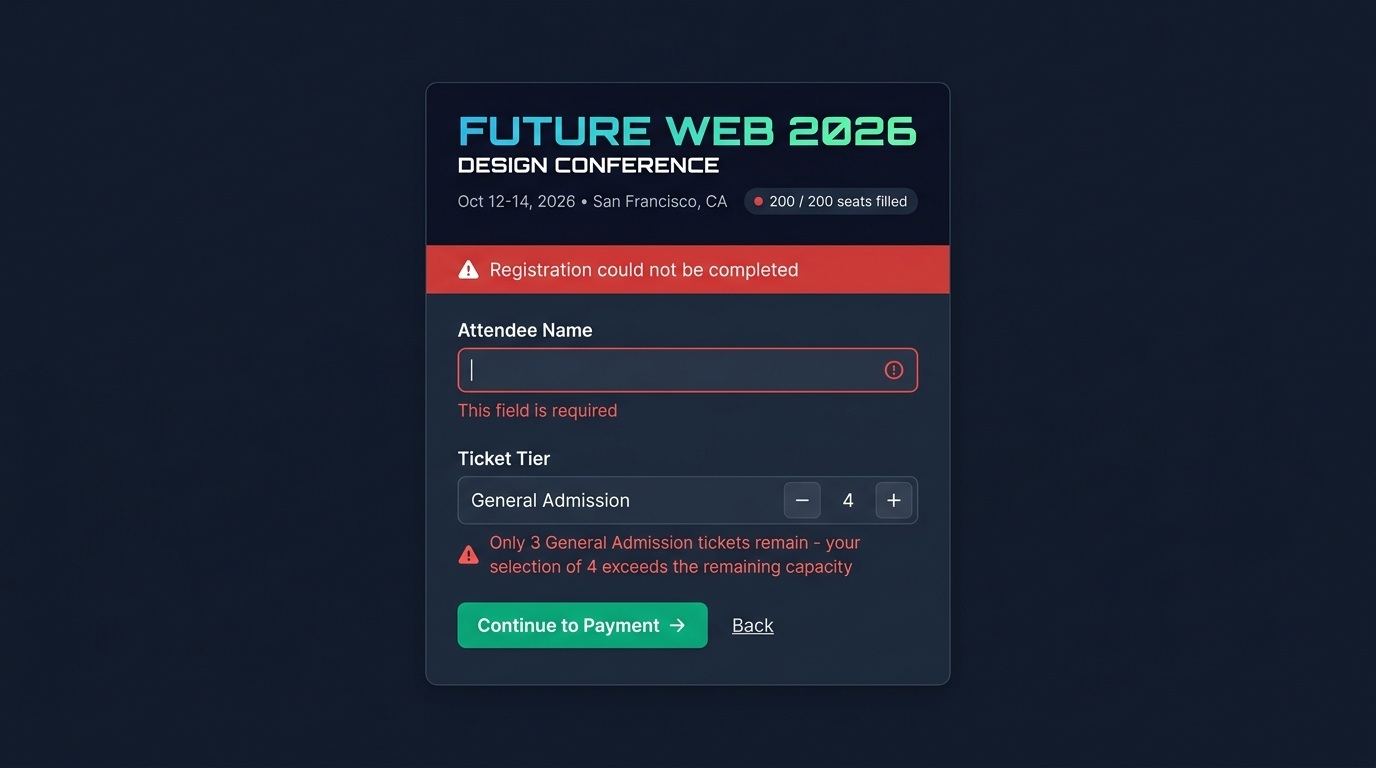
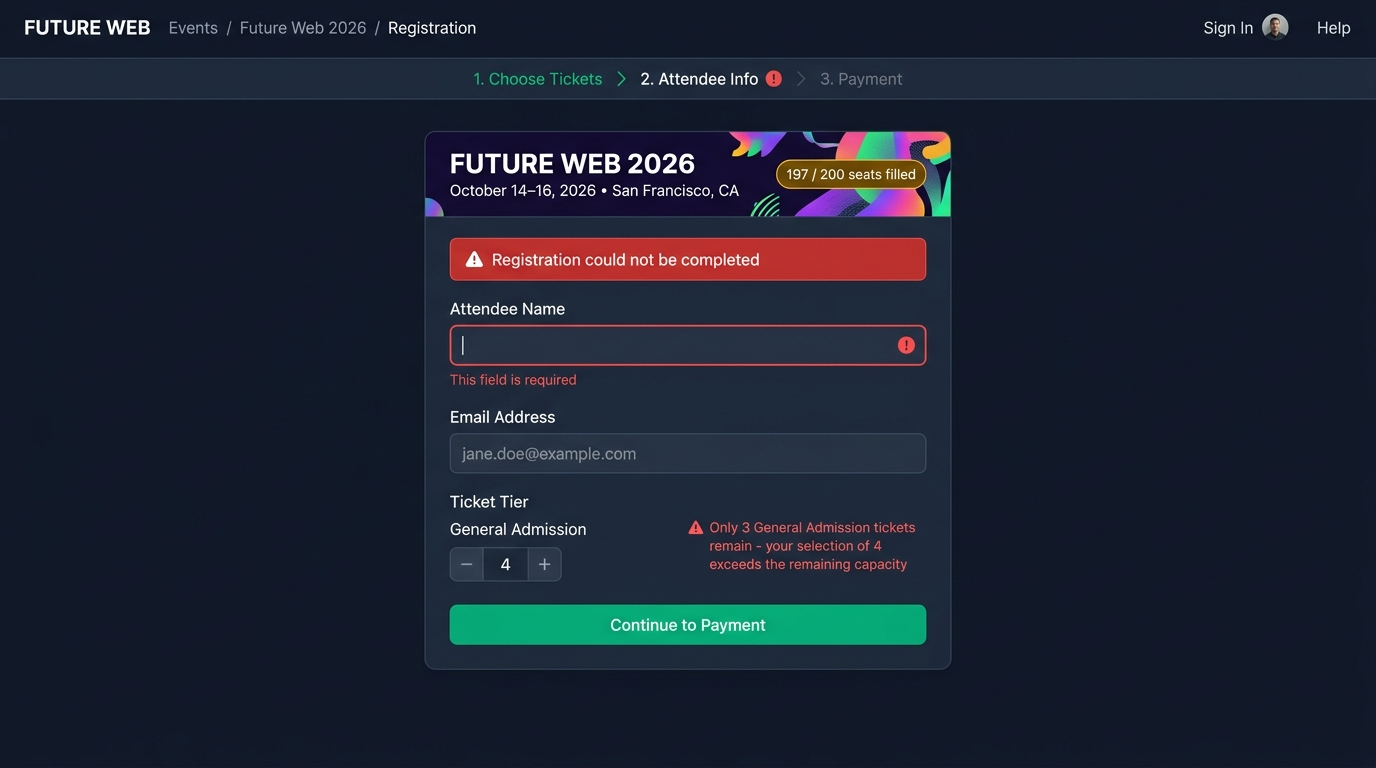
fix(event-registration): Make the refusal board's inventory coherent
Resolves P2 finding mwg-train-vxf5: the prompt authored contradictory
inventory - a '200 / 200 seats filled' pill beside a 'Only 3 General
Admission tickets remain' notice. If 200 of 200 are filled, zero remain.

The prompt now reads '197 / 200 seats filled' (200 - 197 = 3 remaining,
the selection of 4 exceeds it). Board regenerated (gateway-attested
gemini-nano-banana-2.1, 1376x768, 408360 bytes, sha256 1722c3be...,
prompt digest c70df044... - the register's pin moved first so the
generator's own integrity check stayed satisfied); vision re-review
ACCEPT with the pill and notice quoted exactly and the arithmetic
verified. Caption prefix, register row, asset store, pilot corpus and
tokens re-cascaded; the token table needed no resync - the new digest
and byte-count strings are the same length, so the measured totals are
unchanged.

check:all PASS 27; wave2 + tokens-record suites 6/6; captions 17/17.

Release-note: the event-registration refusal board no longer depicts contradictory seat inventory.

diff --git a/docs/design/archetypes/event-registration/demo/compare.html b/docs/design/archetypes/event-registration/demo/compare.html
@@ -32,7 +32,7 @@
       <h2>Capacity and validation refusal</h2>
       <p>Board 3 (added by mwg-train-wkto): the contract's refusal states - an omitted required field and a ticket selection exceeding remaining capacity, both announced in bound text (plan.md:34, tr-07, fam-r02). A state of the form, not a document.</p>
       <div class="compare-grid">
-        <figure><img src="../step3-refusal.jpg" width="1376" height="768" alt="Illustrative dark registration card after a refused submission: red banner Registration could not be completed, attendee name field outlined red with This field is required, a red capacity notice beside a stepper showing 4 against 3 remaining, and the unchanged Continue to Payment button"><figcaption>Unmodified reference, <code>../step3-refusal.jpg</code> · SHA-256 <code>17bbdd1e51ce…</code> · <a href="../step3-refusal.jpg">open board 3</a>.</figcaption></figure>
+        <figure><img src="../step3-refusal.jpg" width="1376" height="768" alt="Illustrative dark registration card after a refused submission: red banner Registration could not be completed, attendee name field outlined red with This field is required, a red capacity notice beside a stepper showing 4 against 3 remaining, and the unchanged Continue to Payment button"><figcaption>Unmodified reference, <code>../step3-refusal.jpg</code> · SHA-256 <code>1722c3bee039…</code> · <a href="../step3-refusal.jpg">open board 3</a>.</figcaption></figure>
         <figure><iframe src="index.html" title="Live registration form, the page whose refused state the board depicts" loading="lazy"></iframe><figcaption>Live registration form · <a href="index.html">open full size</a>. The board depicts this form's own refusal state; native validation refuses empty entries here, and <code>board-states.json</code> registers the board as an interaction with no path, so the parity comparator deliberately compares nothing against it by path.</figcaption></figure>
       </div>
     </article>

diff --git a/docs/design/archetypes/event-registration/README.md b/docs/design/archetypes/event-registration/README.md
@@ -11,7 +11,7 @@
 | --- | --- | --- | ---: |
[4 lines of base64/hex data omitted]
 
 Hashes identify the handed-off JPEG bytes, not their legal status or reproducibility. The illustrated ticket/payment details may exceed the frozen event-registration functional contract.
 
@@ -32,5 +32,5 @@ High-fidelity, production-quality full-bleed edge-to-edge web canvas with no flo
 ### `step3-refusal.jpg`
 
 ```text
-Full-bleed desktop screenshot of a web application's own viewport: a design conference event registration form, Capacity-Refused and Validation State. The application fills the entire 1376x768 frame edge to edge - no browser window, no OS title bar or traffic lights, no device frame, no page container, no rounded panel around the page, no surrounding background margin and no drop shadow around the interface. The only background visible is the application's own page colour (#0f172a), and it reaches all four edges. On that page: the same registration card (surface #1e293b) as the event overview step, with the 'Future Web 2026' banner, the date and venue line, and the capacity pill now reading '200 / 200 seats filled'. The form is shown after a refused submission: a red error banner at the top of the card reads 'Registration could not be completed', with two announced errors bound to the fields they describe - the Attendee Name field outlined in red with helper text 'This field is required', and a red notice beside the ticket tier stepper reading 'Only 3 General Admission tickets remain - your selection of 4 exceeds the remaining capacity' with the stepper showing 4. The emerald 'Continue to Payment' button is unchanged, and no payment or confirmation content appears anywhere because nothing was registered. Accessible focus states, crisp system typography, generous spacing, high contrast.
+Full-bleed desktop screenshot of a web application's own viewport: a design conference event registration form, Capacity-Refused and Validation State. The application fills the entire 1376x768 frame edge to edge - no browser window, no OS title bar or traffic lights, no device frame, no page container, no rounded panel around the page, no surrounding background margin and no drop shadow around the interface. The only background visible is the application's own page colour (#0f172a), and it reaches all four edges. On that page: the same registration card (surface #1e293b) as the event overview step, with the 'Future Web 2026' banner, the date and venue line, and the capacity pill now reading '197 / 200 seats filled'. The form is shown after a refused submission: a red error banner at the top of the card reads 'Registration could not be completed', with two announced errors bound to the fields they describe - the Attendee Name field outlined in red with helper text 'This field is required', and a red notice beside the ticket tier stepper reading 'Only 3 General Admission tickets remain - your selection of 4 exceeds the remaining capacity' with the stepper showing 4. The emerald 'Continue to Payment' button is unchanged, and no payment or confirmation content appears anywhere because nothing was registered. Accessible focus states, crisp system typography, generous spacing, high contrast.
 ```

diff --git a/docs/provenance/assets/design-reference-wave2.md b/docs/provenance/assets/design-reference-wave2.md
@@ -24,6 +24,6 @@
[5 lines of base64/hex data omitted]
 
 The JPEG digests prove only the handed-off files' integrity. Prompt digests prove the transcribed README text matches the recorded calls when verified against the originating session; they do **not** prove that a particular prompt deterministically recreates these pixels or that the reported model ID was the one executed.

diff --git a/docs/provenance/assets/archetype-asset-sets.md b/docs/provenance/assets/archetype-asset-sets.md
@@ -65,12 +65,12 @@ store, the register or the target have moved apart.
 ### event-registration
 
 - Target: `docs/design/archetypes/event-registration`
[3 lines of base64/hex data omitted]
 - Documents: `docs/design/archetypes/event-registration/demo/compare.html`, `docs/design/archetypes/event-registration/demo/index.html`
 - Rights: `excluded_from_training: true`, `approved_for_training: false` from `docs/design/archetypes/event-registration/README.md:5`
 - Brand: `Future Web 2026` (adjudicated: The accepted target has no brand element. Its demo's own h1 names the event - 'Future Web 2026', with '24-25 October - Barbican Centre, London' - and for an event-registration site the event is the site's name. The candidate is weak (a heading can be a page title), which is exactly why the choice is recorded here with its evidence rather than extracted silently. — 2026-10-11)
[2 lines of base64/hex data omitted]
 
 ## What this register does not claim
 
